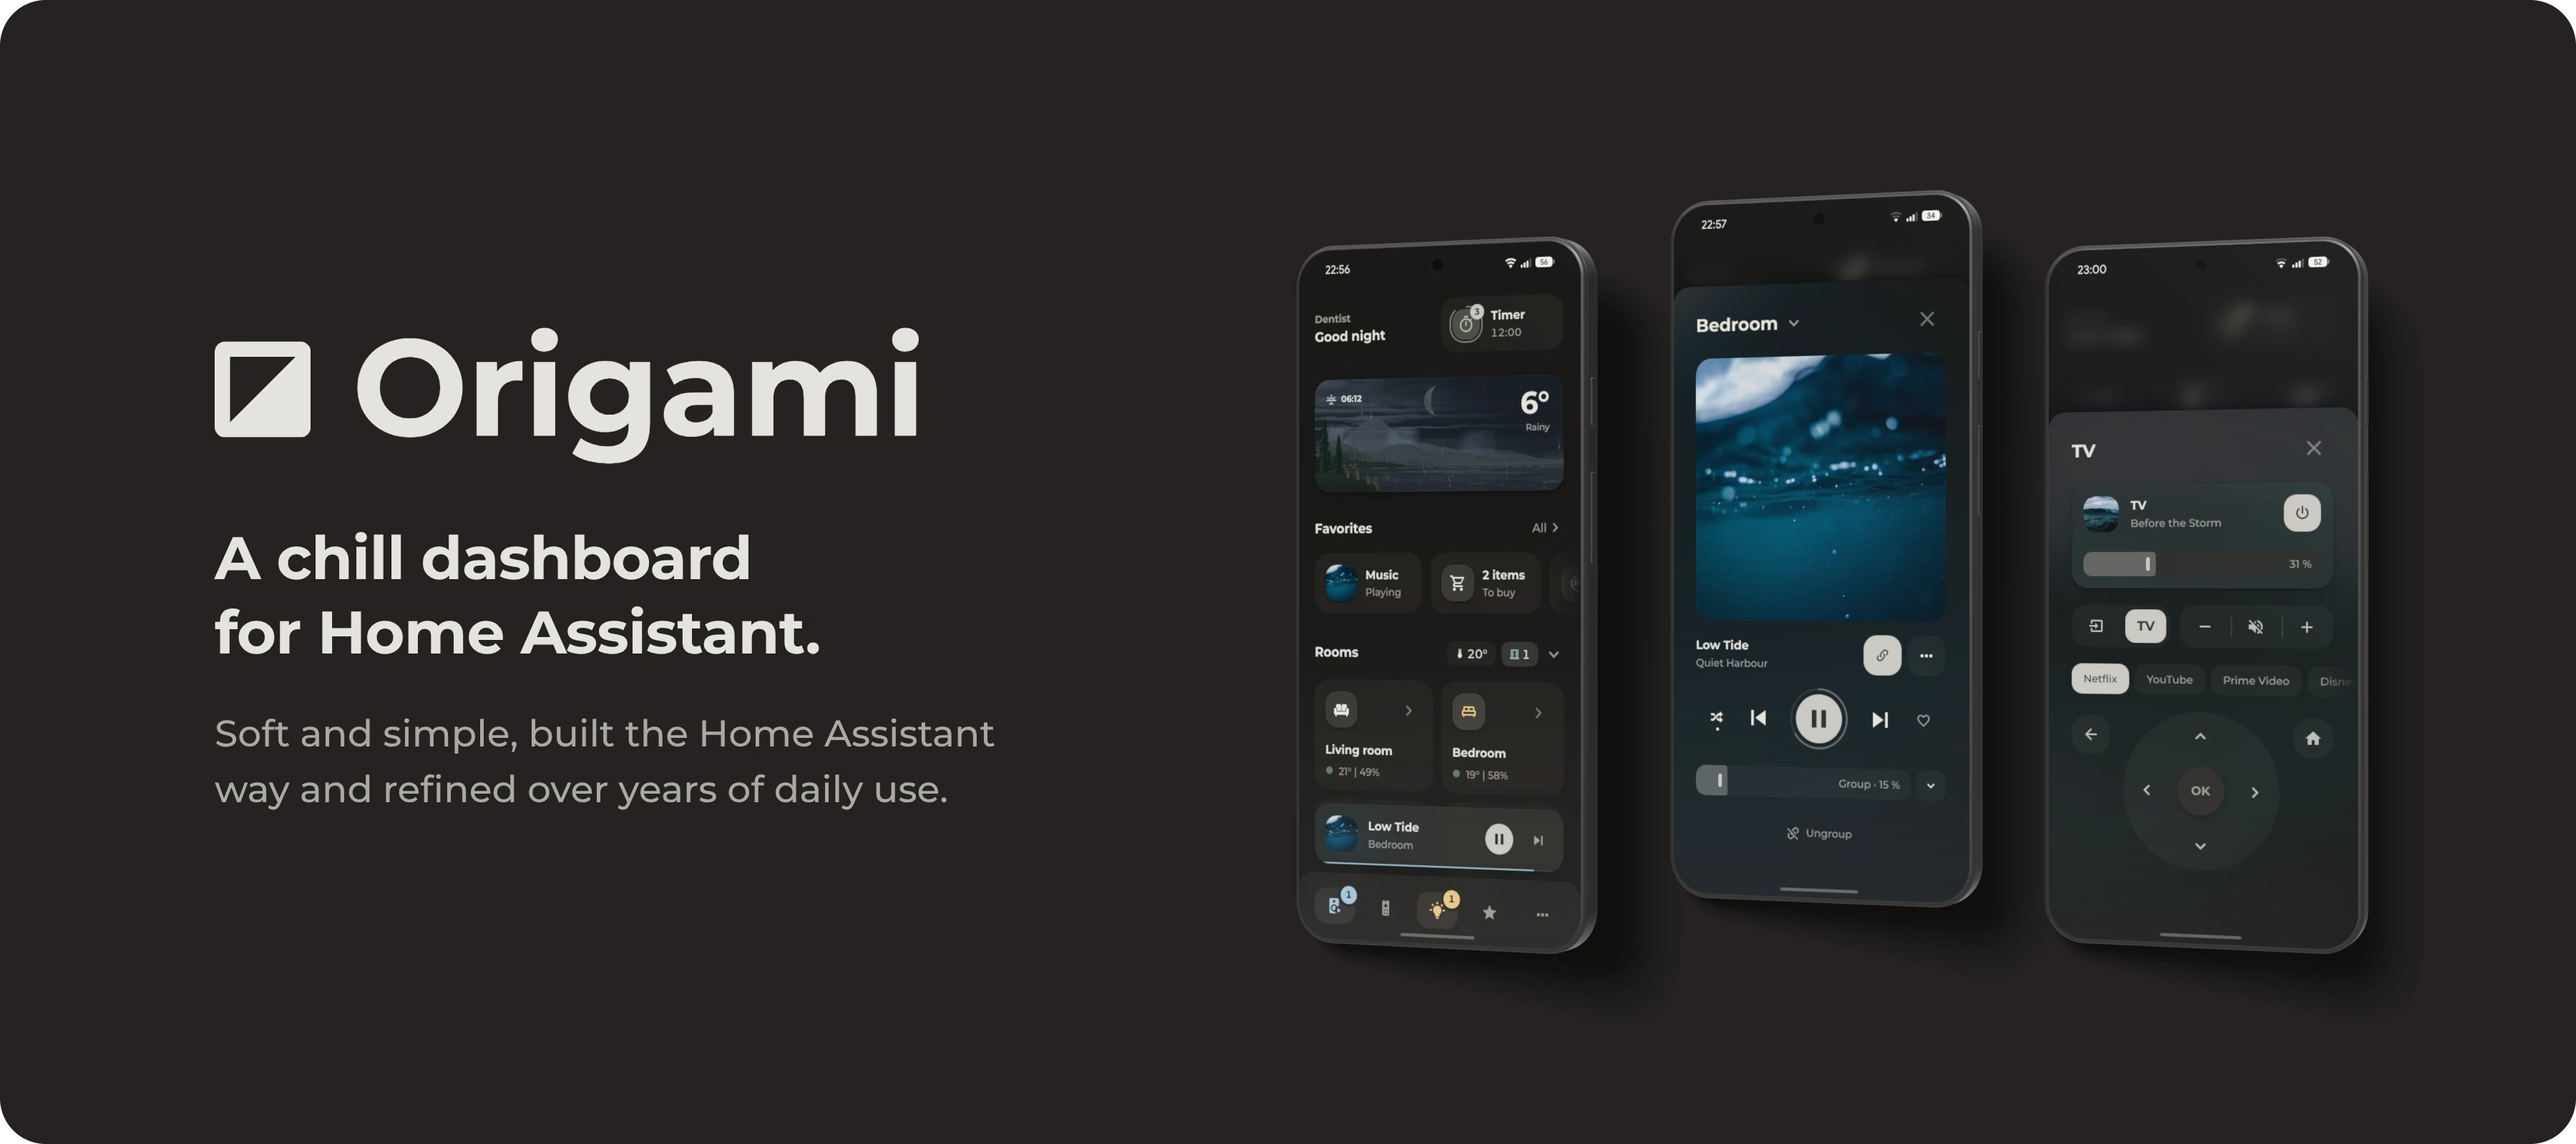
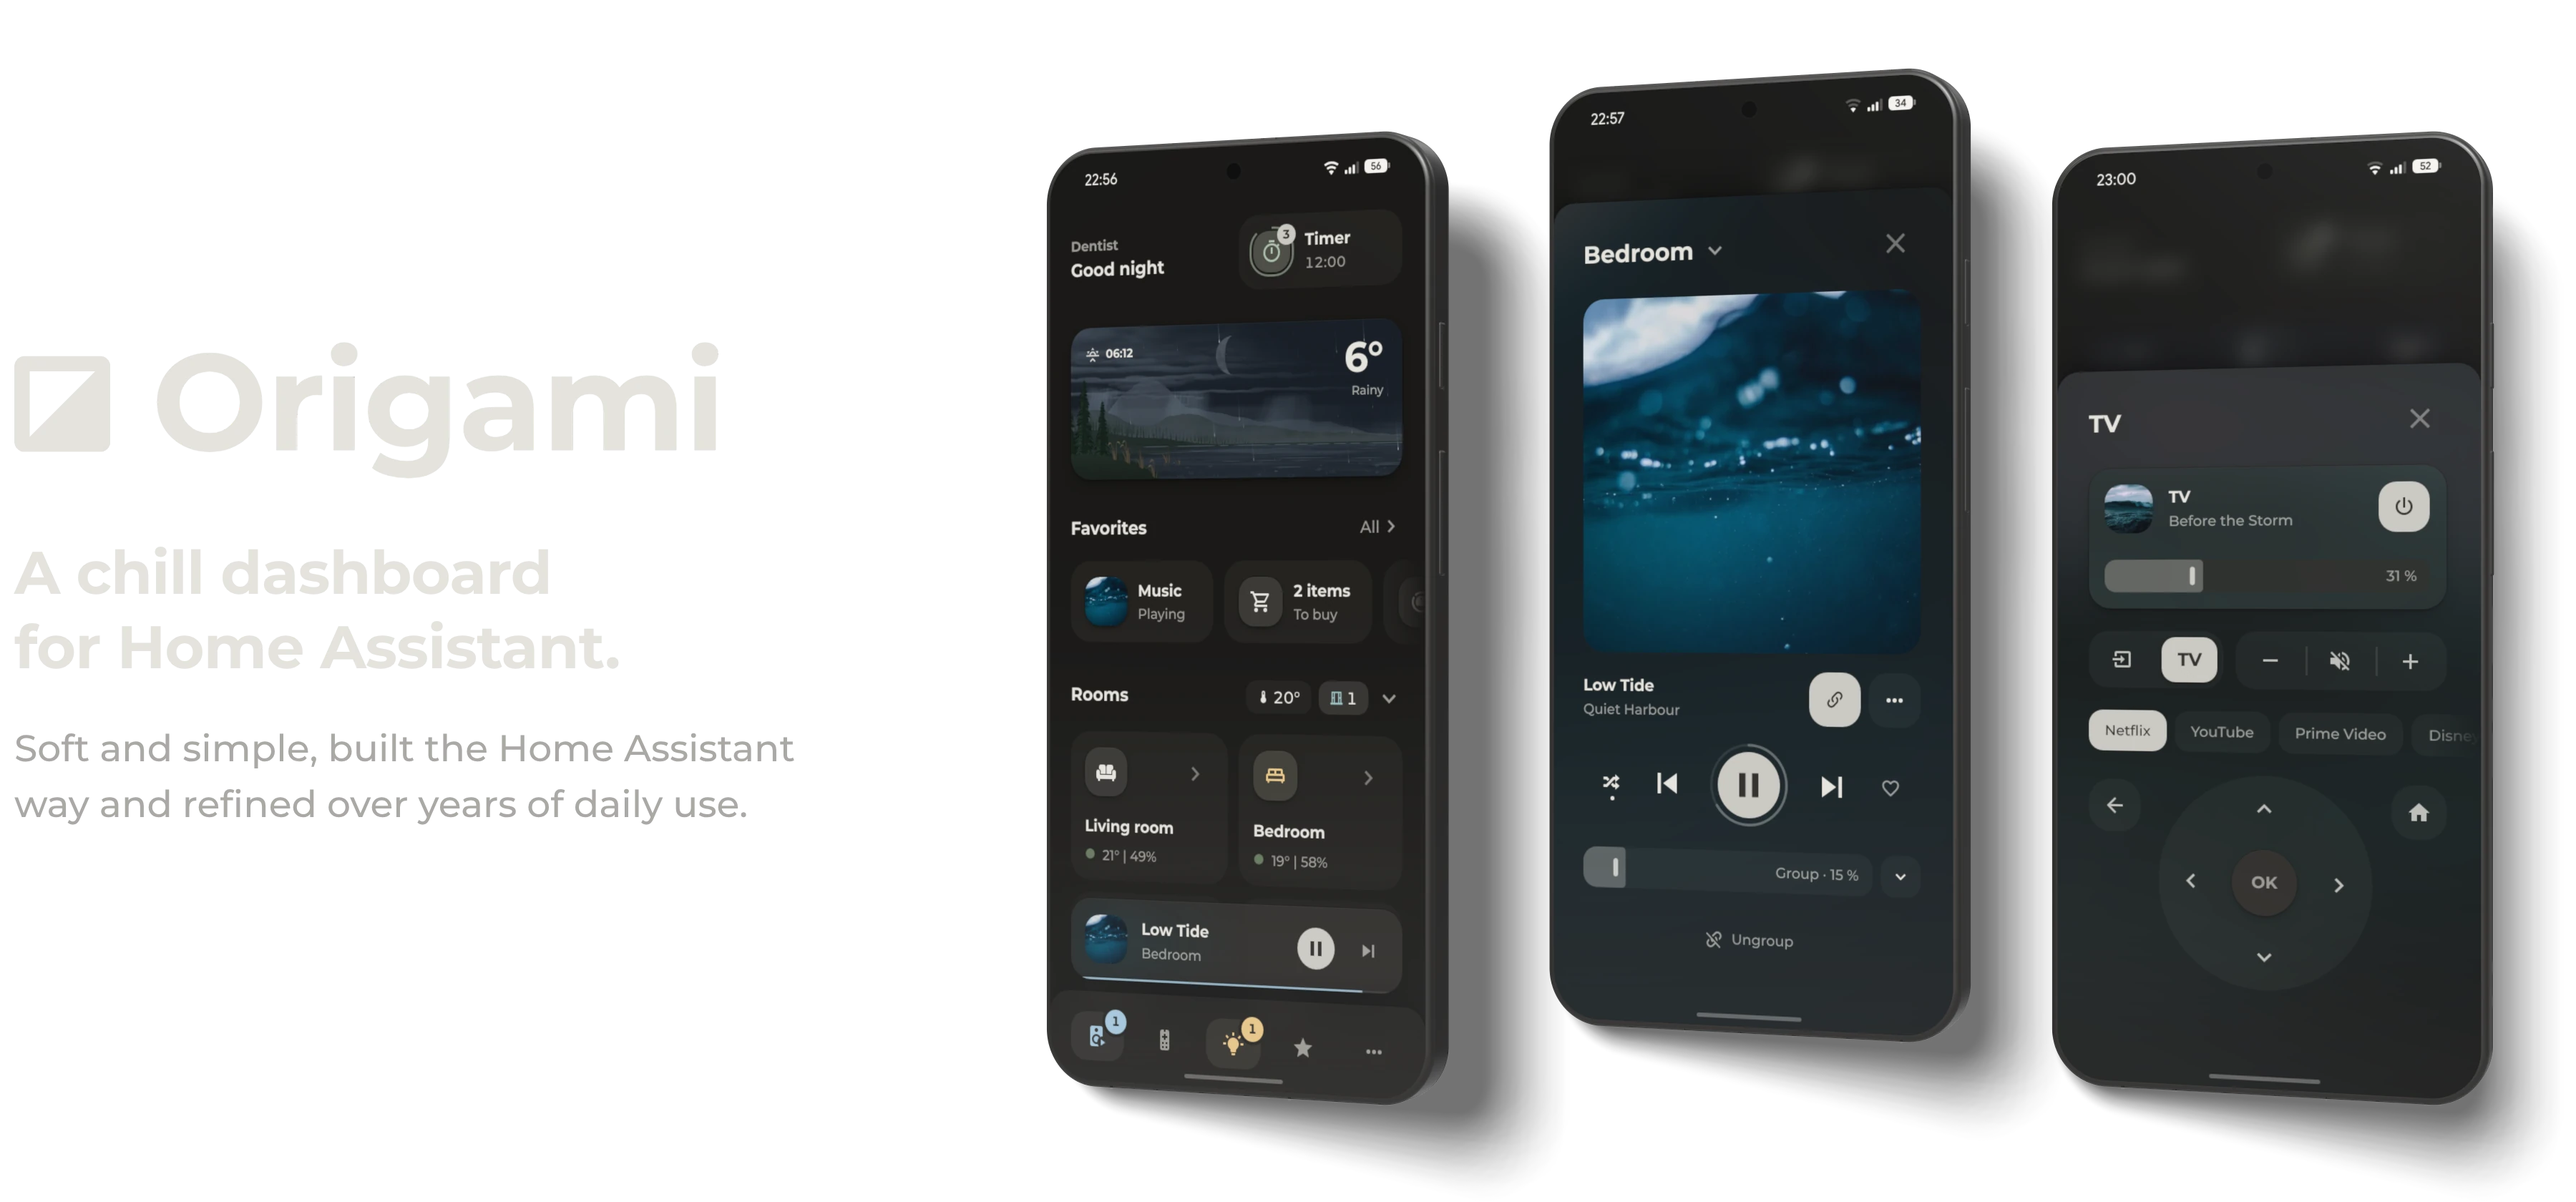
Hero with the theme's text again, one image for each theme

diff --git a/.github/bench/images/make.py b/.github/bench/images/make.py
@@ -30,9 +30,9 @@ side by side, and has:
   light and dark: any of these keys for one mode only, so the dark image can show another moment than the light one.
     home.yaml has them too, for the whole home.
 
-hero.yaml makes images/v3/hero.webp, the README's first image, for GitHub's light and dark theme at once. Each of its phones
-takes another image's file with from, in its own mode, and changes its keys in the same way, and hero.mjs puts the screens on
-phones in 3D beside the headline and the line. three.js is downloaded once into .github/bench/.cache too.
+hero.yaml makes images/v3/hero-light.webp and hero-dark.webp, the README's first image. Each of its phones takes another
+image's file with from and changes its keys in the same way, and hero.mjs puts the screens on phones in 3D beside the
+headline and the line. three.js is downloaded once into .github/bench/.cache too.
 """
 import json, os, random, re, shutil, subprocess, sys, urllib.request
 import yaml
@@ -215,30 +215,30 @@ def screen(im, out):
 
 
 def hero(name, spec):
-    """Each phone's screen in its own mode, then hero.mjs puts them on phones in 3D beside the headline"""
+    """Each phone's screen in both modes, then hero.mjs puts them on phones in 3D beside the headline"""
     home = load(os.path.join(HERE, 'home.yaml'))
     work = os.path.join(CACHE, 'images', name)
-    screens, modes = [], []
+    screens = {'light': [], 'dark': []}
     for i, p in enumerate(spec['phones']):
         files = [load(os.path.join(HERE, p['from'] + '.yaml')), p]
         phone_work = os.path.join(work, str(i))
         folder(phone_work)
-        mode = p['mode']
-        keys, shot = shoot(mode, home, files, phone_work, True)
-        im = Image.open(shot).convert('RGB')
-        out = {'kind': 'screen', 'mode': mode, 'shot': shot, 'font': os.path.join(CACHE, 'status-font.woff2'), 'out': os.path.join(phone_work, f'screen-{mode}.png')}
-        screen(im, out)
-        im.save(shot)
-        out.update(status(f'{name}-{p["from"]}', mode, p, keys))
-        frame(out, phone_work)
-        screens.append(out['out'])
-        modes.append(mode)
-    job = {'screens': screens, 'modes': modes, 'headline': spec['headline'], 'line': spec['line'],
-           'three': os.path.join(CACHE, 'three'), 'fonts': os.path.join(REPO, 'www/fonts'), 'out': os.path.join(work, f'{name}.png')}
-    with open(os.path.join(work, f'{name}.json'), 'w') as f:
-        json.dump(job, f)
-    subprocess.run(['node', os.path.join(HERE, 'hero.mjs'), os.path.join(work, f'{name}.json')], check=True)
-    save(Image.open(job['out']), os.path.join(OUT, f'{name}.webp'), False)
+        for mode in screens:
+            keys, shot = shoot(mode, home, files, phone_work, True)
+            im = Image.open(shot).convert('RGB')
+            out = {'kind': 'screen', 'mode': mode, 'shot': shot, 'font': os.path.join(CACHE, 'status-font.woff2'), 'out': os.path.join(phone_work, f'screen-{mode}.png')}
+            screen(im, out)
+            im.save(shot)
+            out.update(status(f'{name}-{p["from"]}', mode, p, keys))
+            frame(out, phone_work)
+            screens[mode].append(out['out'])
+    for mode in screens:
+        job = {'mode': mode, 'screens': screens[mode], 'headline': spec['headline'], 'line': spec['line'],
+               'three': os.path.join(CACHE, 'three'), 'fonts': os.path.join(REPO, 'www/fonts'), 'out': os.path.join(work, f'{name}-{mode}.png')}
+        with open(os.path.join(work, f'{name}-{mode}.json'), 'w') as f:
+            json.dump(job, f)
+        subprocess.run(['node', os.path.join(HERE, 'hero.mjs'), os.path.join(work, f'{name}-{mode}.json')], check=True)
+        save(Image.open(job['out']), os.path.join(OUT, f'{name}-{mode}.webp'), False)
 
 
 def make(name):

diff --git a/.github/scripts/check_rules.py b/.github/scripts/check_rules.py
@@ -209,7 +209,7 @@ for readme in sorted((ROOT / "dashboard").glob("*/README.md")):
 # Screenshots: an image in a README or the module reference whose file doesn't exist yet is a placeholder.
 # The list is the shot list for the last pass before the release, and with --release, a placeholder fails.
 # While a release is built, the images point to next, so its READMEs show them. With --release, such an image fails.
-# A source tag counts too, such as an image's dark version that GitHub shows in its dark theme.
+# The hero's dark version stands in a source tag, which GitHub shows in its dark theme.
 shots = {}
 for name in READMES:
     for tag in re.findall(r"<(?:img|source)\b[^>]*>", (ROOT / name).read_text(encoding="utf-8")):

diff --git a/.github/MAINTAINING.md b/.github/MAINTAINING.md
@@ -33,7 +33,7 @@ The README is the main documentation, and in the end it is what people get from 
 
 - It's light. The main README is a gallery: each part is its name, its image and one short line about it, which ends with a **More** link to the part's folder. The home view is one image of the page on a phone, with its parts as a list below it, where each part's name is the link to its folder, and the menu and every pop-up get an image of their own. The name itself is plain text. The line says what the part is for, the way someone would describe it, not what its code shows. It leaves out layout details and the cards a part needs, because the part's README has them, unless a card is the reason the part exists, as for the menu. The line isn't a copy of the first sentence in the part's README. The README in that folder has the part's steps, next to its files. Anything else in the main README, such as troubleshooting, sits in one folded `<details>` block, so people open what they want on purpose.
 - Origami's idea is said once, in the intro of the main README, which may sound personal: it tells where Origami comes from. The parts, the other sections and the module reference don't repeat it. The intro follows the maintainer's draft and changes only when the maintainer asks. The folded block How Origami is built under More gives the order that every part's pieces follow, and other places link there instead of repeating it.
-- Badges have a label in the dark theme's background color, `#181715`, and a value in the light theme's, `#F6F4F1`, so they never compete with the images. The Origami Suite badge with the Origami logo, ◪, marks every repository of the suite, such as Origami Weather, and links to all of them. The badges stand at the very top of the README, in a `div`, which has no margin, so no gap opens between them and the hero. The hero's `picture` stands on its own below them, because GitHub turns an image inside a paragraph into a link. The release badge is static and names the newest release, such as V2.0, because a badge that asks GitHub for it often fails to load.
+- Badges have a label in the dark theme's background color, `#181715`, and a value in the light theme's, `#F6F4F1`, so they never compete with the images. The Origami Suite badge with the Origami logo, ◪, marks every repository of the suite, such as Origami Weather, and links to all of them. The badges stand at the very top of the README, in a `div`, which has no margin, so no gap opens between them and the hero. The hero's `picture` stands on its own below them, because GitHub turns an image inside a paragraph into a link, and then the `picture` no longer switches to dark. The release badge is static and names the newest release, such as V2.0, because a badge that asks GitHub for it often fails to load.
 - A step never assumes a fresh install. Many people already have HACS, Bubble Card or a themes folder, so a step says what to check or update instead, and Bubble Card and the community cards get credit where they come up.
 - Every part's README has the same sections in the same order: its name, an image for each example and what it's for, then Requirements, Setup, Optional if the part has optional pieces, and Entities. Requirements lists only what has to be installed or exist already, such as modules, integrations, cards and devices. Setup has numbered steps for what the part needs and nothing else. Each optional piece gets one entry under Optional, with what it adds, the helper or script it needs and what to delete without it. Entities says what each example entity is used for. `check_rules.py` checks the sections, that nothing optional stands under Requirements or Setup, and that the modules match the files.
 - A part whose Setup has long steps, such as a helper with a template, puts each step in a folded block whose title says what to do, such as **Create the speaker helper**, so the steps first read as a short list. Titles in a row of folded blocks share one form, with numbers on all of them or on none.
@@ -142,7 +142,7 @@ All text is written for people: short, plain English that sounds like a person w
 - All images follow one standard, so the gallery looks like one piece. Each image shows a part's light and dark mode side by side, with rounded corners and a transparent gap between them. The two halves show different things that are useful to see, such as an open mini pop-up in dark, another moment of the example home or other devices, never the same view twice. A card stands on its own, as in 2.0. The home view, the menu and each pop-up stand on a phone that faces the camera, always at a real phone's size, so the home view shows what fits on its screen, on a plain background a little lighter than the light page or a little darker than the dark one. The pictures in the demos, such as covers, are photos under CC0 or in the public domain: forests by day and the sea by night. Never a diagonal division.
 - The images show each part at its best and show off what it can do, because they are what people see first, such as birds over a weather card by day and snow falling at night. Lists are full, such as six speakers or six rooms, added as the part's README says, and every row of a table has all its cells. A phone is whole, except for a part at one edge of the screen, such as the menu at the top or the lights and fan pop-ups at the bottom: there the image ends a little past the part, and the phone meets the image's edge without a margin. A menu or a mini pop-up stands where it opens on a real phone, and each image's status bar has its own time, battery and signal, as on a real phone during a day. The weather on the home view is gray by day, so the weather card adds little color to the page, and `seed` keeps the weather card's sky the same in every shot. A sunny sky without a cloud is a weather card's plainest look, so the weather images show clouds, rain, snow or the night, and in each mode the three cards show three kinds of weather.
 - An image never shows the same thing twice, such as a cleaning vacuum in the notifications and in the favorites. The favorites are quick access first, so only the first favorite is on and the others wait for a tap. Values stay short and even, such as 20° instead of 19.5° for a thermostat and Playing instead of Bedroom as a state, and no name is cut off. Each image's scenario picks its favorites and states for this, and a change to a part keeps them.
-- The hero is the README's first image and gets more care than any other. Three simple phones in 3D, with no black border around the screen, show the home view with its room cards and the TV remote on nearly black phones at night, and between them the music pop-up on a white phone by day. They turn toward the logo, the headline and the line. One image fits GitHub's light and dark theme and HACS: its background is transparent, its text is a warm gray that reads on white and on black, and the phones' shadow shows on a light page and fades on a dark one.
+- The hero is the README's first image and gets more care than any other. Three simple phones in 3D, white by day and nearly black at night, with no black border around the screen, show the home view with its room cards, the music pop-up and the TV remote. They turn toward the logo, the headline and the line. The hero comes in a light and a dark version on a transparent background, and the README shows the one that matches GitHub's theme.
 - Screenshots show the real theme, font, modules and cards. `python3 .github/bench/images/make.py` makes every image with the bench from the example home's states in `.github/bench/images` and frames them, and `hero.mjs` there puts the hero's screens on its phones.
 - Before using a screenshot, look at it at full size and check the spacing against the rest of the dashboard. Measure gaps in the browser instead of guessing.
 - README images use absolute `raw.githubusercontent.com/hazymorning/origami/main/...` URLs, because HACS doesn't rewrite relative ones. While a release is built, they point to `next` instead, so the READMEs on `next` show the new images, and the last step before the merge points them back to `main`. `check_rules.py --release` fails while one still points to `next`.

diff --git a/README.md b/README.md
@@ -4,7 +4,8 @@
 </div>
 
 <picture>
-  <img alt="Origami on three phones, with the home view and the TV remote at night and the music pop-up by day" src="https://raw.githubusercontent.com/hazymorning/origami/main/images/v3/hero.webp">
+  <source media="(prefers-color-scheme: dark)" srcset="https://raw.githubusercontent.com/hazymorning/origami/main/images/v3/hero-dark.webp">
+  <img alt="Origami on three phones, with the home view, the music pop-up and the TV remote" src="https://raw.githubusercontent.com/hazymorning/origami/main/images/v3/hero-light.webp">
 </picture>
 
 Origami is a dashboard for Home Assistant, built around [Bubble Card](https://github.com/Clooos/Bubble-Card). It grew and changed over a long time, and most of it was built by hand on a phone, which is why it's made for phones first.
